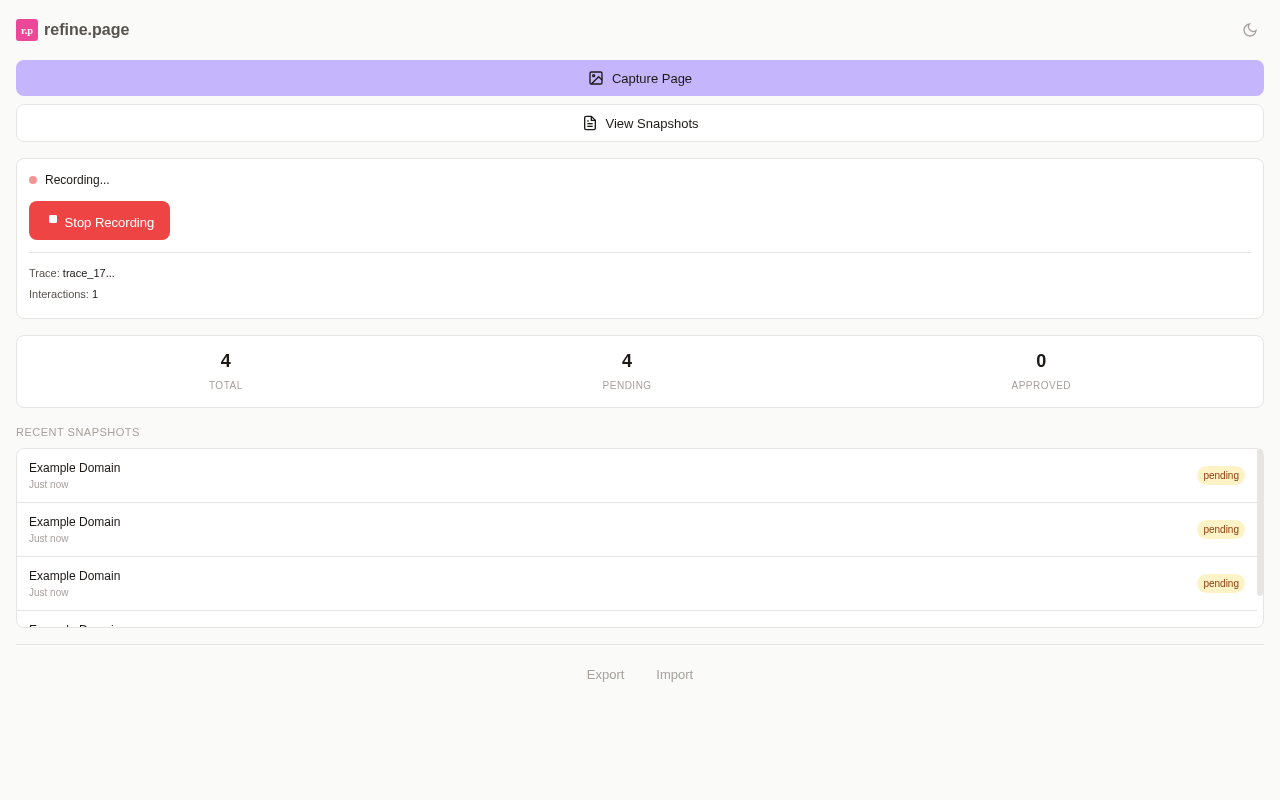
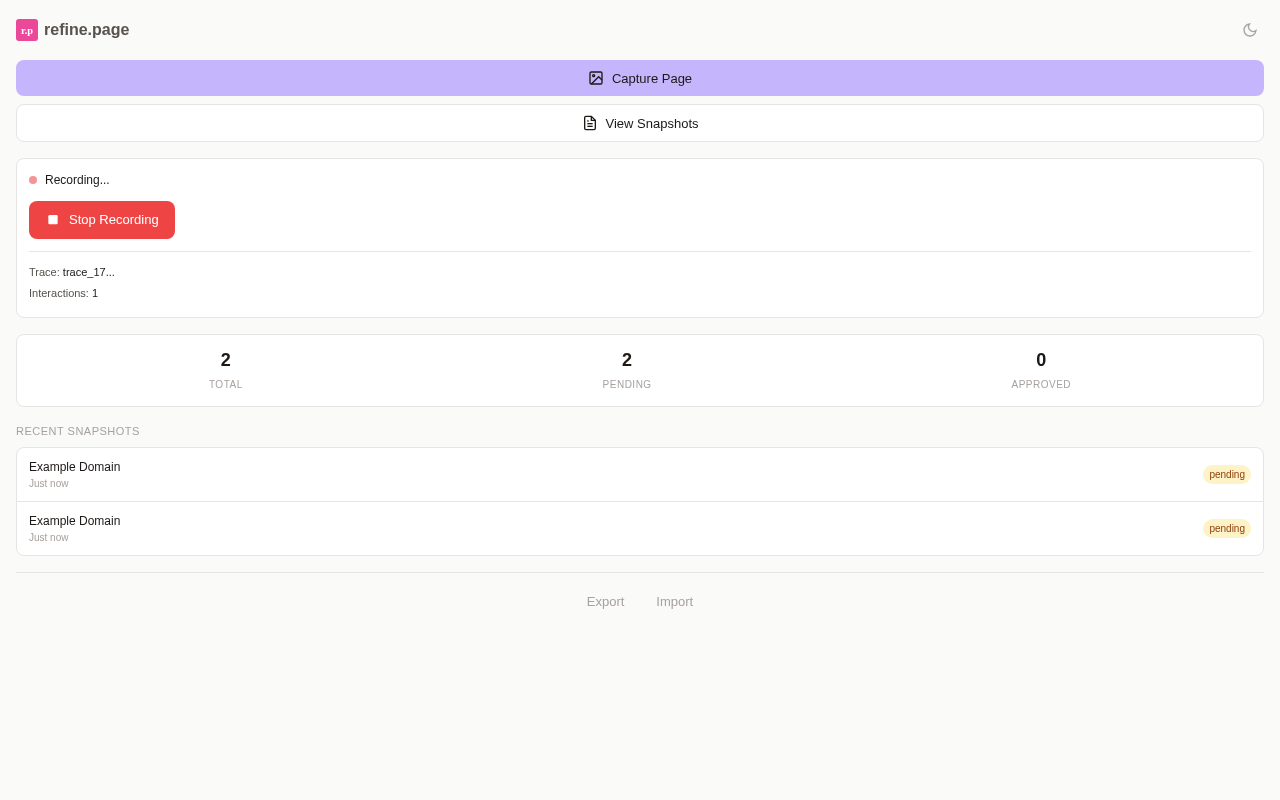
Fix button align

diff --git a/src/popup/popup.html b/src/popup/popup.html
@@ -84,16 +84,20 @@
         </div>
         <div class="recording-buttons">
           <button id="start-recording-btn" class="btn btn-primary">
-            <svg class="icon" viewBox="0 0 24 24" fill="currentColor">
-              <circle cx="12" cy="12" r="10" />
-            </svg>
-            Start Recording
+            <span class="btn-content">
+              <svg class="icon" viewBox="0 0 24 24" fill="currentColor">
+                <circle cx="12" cy="12" r="8" />
+              </svg>
+              <span class="btn-label">Start Recording</span>
+            </span>
           </button>
           <button id="stop-recording-btn" class="btn btn-danger" style="display: none;">
-            <svg class="icon" viewBox="0 0 24 24" fill="currentColor">
-              <rect x="6" y="6" width="12" height="12" rx="2" />
-            </svg>
-            Stop Recording
+            <span class="btn-content">
+              <svg class="icon" viewBox="0 0 24 24" fill="currentColor">
+                <rect x="5" y="6" width="14" height="14" rx="2" />
+              </svg>
+              <span class="btn-label">Stop Recording</span>
+            </span>
           </button>
         </div>
         <div id="recording-info" class="recording-info" style="display: none;">

diff --git a/src/popup/popup.css b/src/popup/popup.css
@@ -168,8 +168,21 @@ body {
   border-radius: var(--radius-lg);
   font-size: 13px;
   font-weight: 500;
+  line-height: 1;
   cursor: pointer;
   transition: all 0.15s ease;
+}
+
+.btn-content {
+  display: inline-flex;
+  align-items: center;
+  justify-content: center;
+  gap: 8px;
+}
+
+.btn-label {
+  display: inline;
+  white-space: nowrap;
 }
 
 .btn:hover {
@@ -213,6 +226,8 @@ body {
 .icon {
   width: 16px;
   height: 16px;
+  flex-shrink: 0;
+  display: block;
 }
 
 /* Status Messages */
